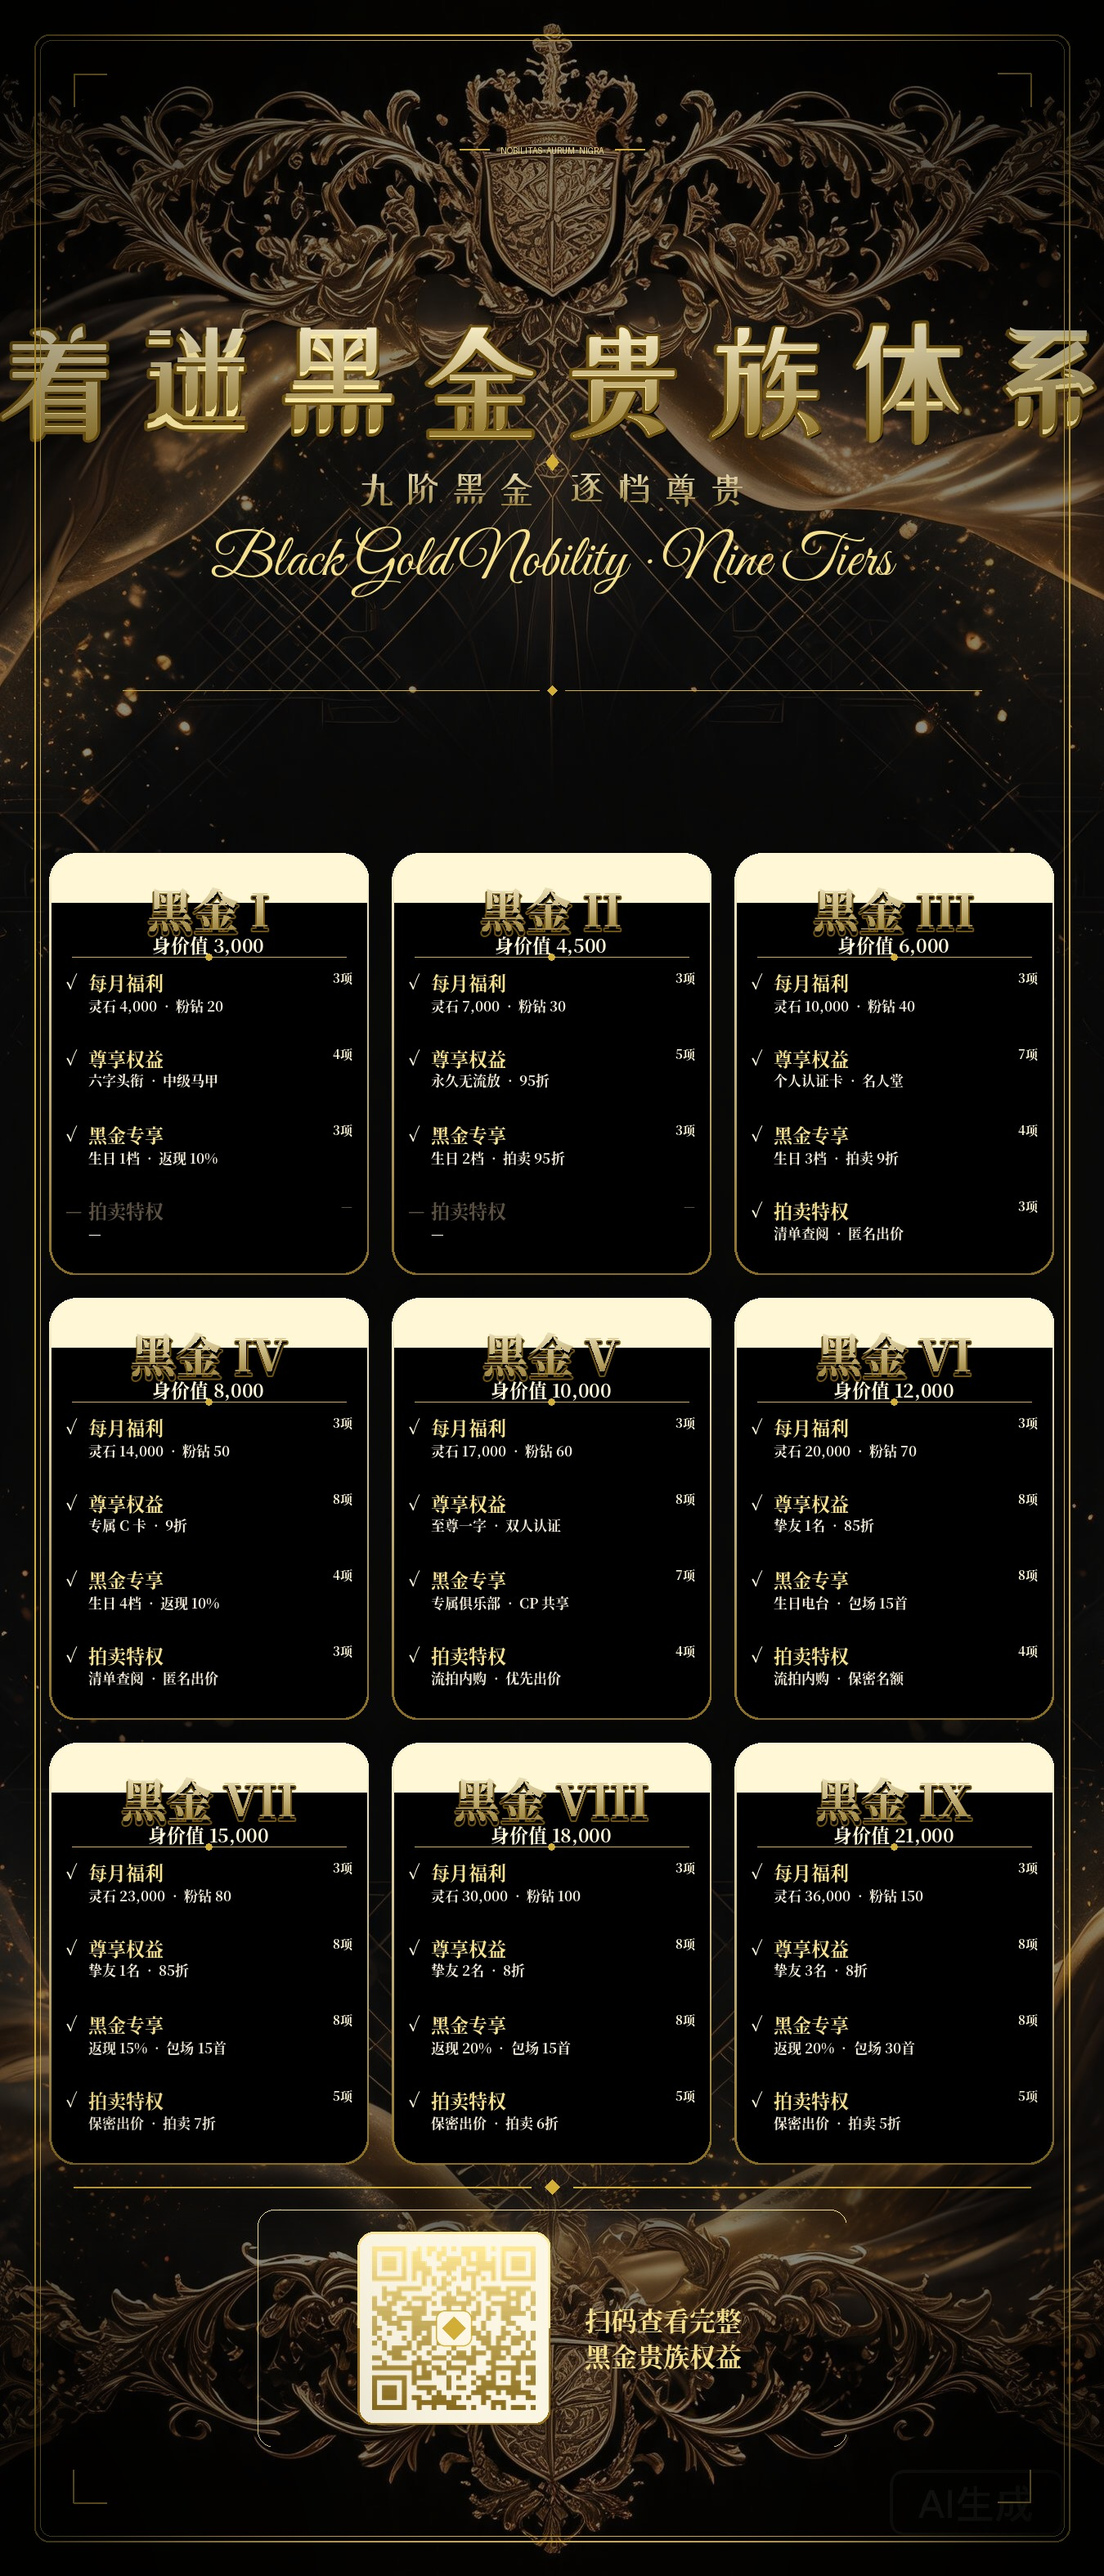
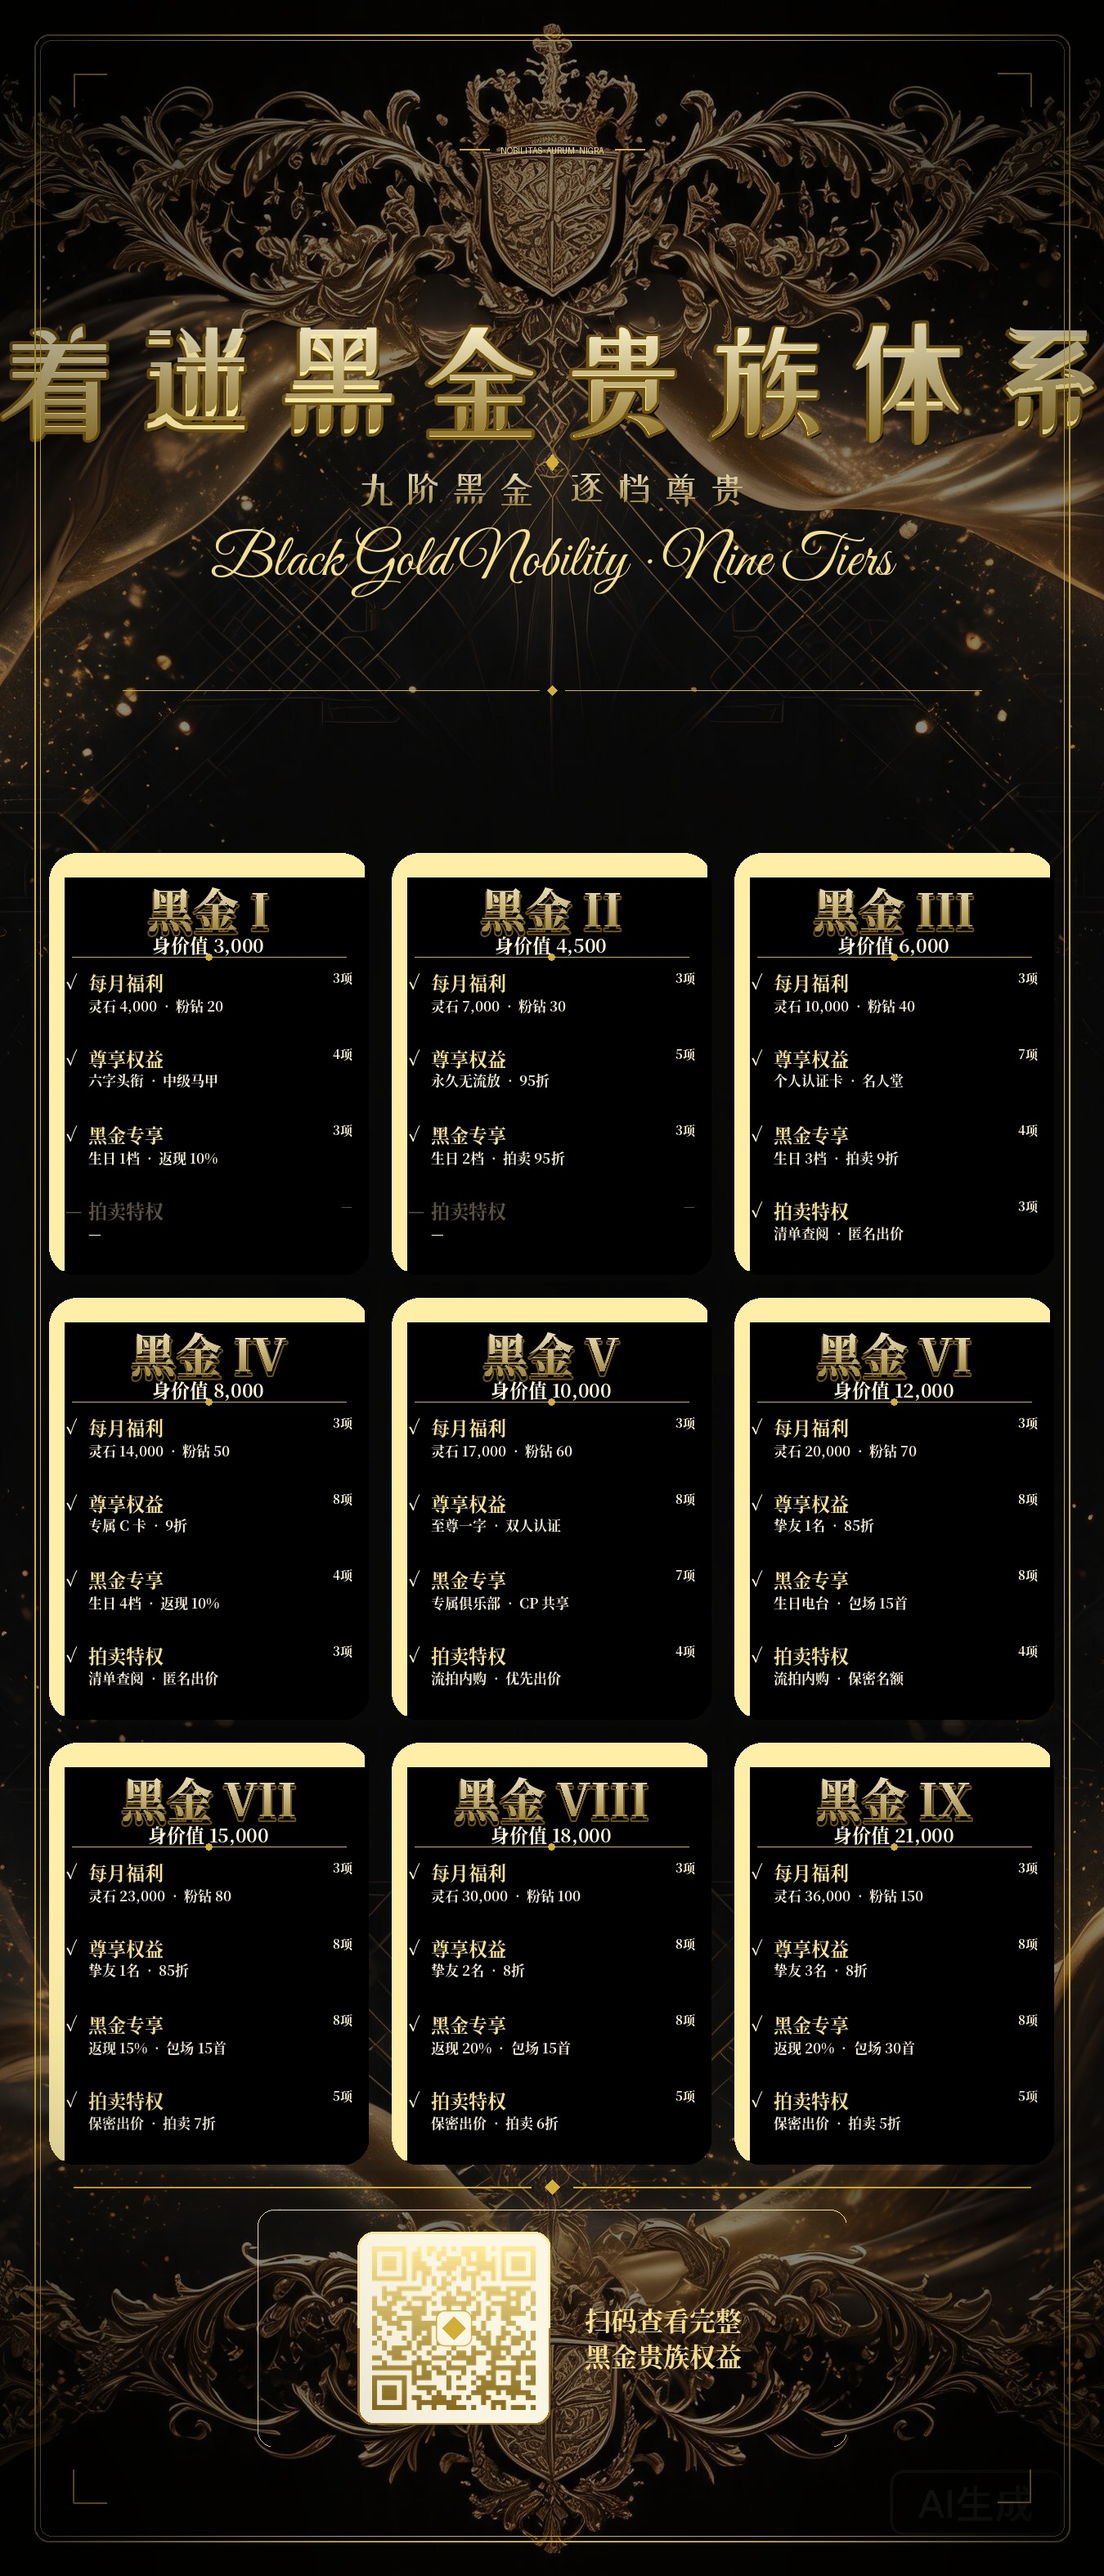
feat: 卡片升级为水晶玻璃质感（高透玻璃底+左上扫光+细金描边+内边缘光晕）

Changed region(s): [[0.0311, 0.3111, 0.9644, 0.84]]

diff --git a/make_poster.py b/make_poster.py
@@ -258,61 +258,81 @@ def card_pos(i):
     return x,y
 
 def glass_card(x,y,w,h,i):
-    """简洁卡片：半透明背景 + 渐变金边 + 凸起光影（投影 + 顶部高光）"""
+    """水晶玻璃卡片：高透玻璃底 + 左上扫光 + 细金描边 + 内边缘光晕 + 柔和投影"""
     R=34  # 圆角
 
-    # ===== 1. 凸起光影 - 外层柔和投影（卡片下方，模糊）=====
-    sh=70
-    shadow=Image.new('RGBA',(w+60,h+140),(0,0,0,0))
+    # ===== 1. 柔和下投影（悬浮感，极淡）=====
+    sh=60
+    shadow=Image.new('RGBA',(w+60,h+120),(0,0,0,0))
     sd=ImageDraw.Draw(shadow)
-    sd.rounded_rectangle((30,h,w+30,h+sh),radius=R,fill=(0,0,0,110))
-    shadow=shadow.filter(ImageFilter.GaussianBlur(18))
+    sd.rounded_rectangle((30,h-6,w+30,h+sh),radius=R,fill=(0,0,0,75))
+    shadow=shadow.filter(ImageFilter.GaussianBlur(22))
     smask=shadow.getchannel('A').copy()
-    ImageDraw.Draw(smask).rectangle((0,0,w+60,h),fill=0)  # 切掉卡片区域内投影
+    ImageDraw.Draw(smask).rectangle((0,0,w+60,h+6),fill=0)
     shadow.putalpha(smask)
     canvas.alpha_composite(shadow,(x-30,y))
 
-    # ===== 2. 半透明背景（深色玻璃，背景微透，整体统一）=====
+    # ===== 2. 高透明玻璃底（深色玻璃，背景清晰透出）=====
     base=Image.new('RGBA',(w,h),(0,0,0,0))
     bd=ImageDraw.Draw(base)
     for yy in range(h):
         tt=yy/max(h-1,1)
-        a=int(120-tt*30)            # 半透明：顶部120，底部90
-        r=int(22+tt*8); g=int(20+tt*8); b=int(26+tt*8)
-        bd.line([(0,yy),(w,yy)],fill=(r,g,b,a))
+        a=int(72+18*(0.5-tt))   # alpha 63~81（够透：背景能看见，卡片也有存在感）
+        bd.line([(0,yy),(w,yy)],fill=(22,18,26,a))
     # 圆角遮罩
-    mask=Image.new('L',(w,h),0)
-    ImageDraw.Draw(mask).rounded_rectangle((0,0,w,h),radius=R,fill=255)
-    base.putalpha(mask)
+    rmask=Image.new('L',(w,h),0)
+    ImageDraw.Draw(rmask).rounded_rectangle((0,0,w,h),radius=R,fill=255)
+    base.putalpha(rmask)
     canvas.alpha_composite(base,(x,y))
 
-    # ===== 3. 凸起光影 - 顶部内高光（凸起感，仅顶部一条亮带）=====
-    top_hl=Image.new('RGBA',(w,h),(0,0,0,0))
-    thd=ImageDraw.Draw(top_hl)
-    for yy in range(int(h*0.12)):
-        tt=yy/(h*0.12)
-        a=int(90*(1-tt)**2)         # 顶部最亮，向下快速衰减
-        thd.line([(0,yy),(w,yy)],fill=(255,247,214,a))
-    topmask=Image.new('L',(w,h),0)
-    ImageDraw.Draw(topmask).rounded_rectangle((0,0,w,h),radius=R,fill=255)
-    top_hl.putalpha(topmask)
-    canvas.alpha_composite(top_hl,(x,y))
+    # ===== 3. 左上扫光（暖白色对角扫过，水晶反光核心）=====
+    sweep=Image.new('RGBA',(w,h),(0,0,0,0))
+    swd=ImageDraw.Draw(sweep)
+    for yy in range(h):
+        for xx in range(w):
+            # 主对角线方程 y = x*h/w
+            diag_y=xx*h/w
+            dist=abs(yy-diag_y)
+            # 到对角线距离归一化（沿宽方向）
+            d_norm=dist/(h*0.55)   # 扫光带宽度扩大
+            # 沿对角线进度
+            prog=(xx+yy)/(w+h)
+            # 左上三角区：prog 小（左上）且 d_norm 小（靠近对角线）
+            if prog<0.70 and d_norm<1.0:
+                intensity=(1-prog/0.70)*(1-d_norm)**1.0
+                a=int(180*intensity)   # 加强：max 180
+                swd.point((xx,yy),fill=(255,248,220,a))
+    sweep.putalpha(rmask)
+    canvas.alpha_composite(sweep,(x,y))
 
-    # ===== 4. 渐变边框（金色，上亮下暗，凸起感）=====
+    # ===== 4. 细金描边（2px 精致金边，上亮下暗渐变）=====
     border=Image.new('RGBA',(w,h),(0,0,0,0))
     bdr=ImageDraw.Draw(border)
     for yy in range(h):
         tt=yy/max(h-1,1)
-        # 金色渐变：顶部亮金 → 底部深金
         cr=int(GOLD_HI[0]+(GOLD_DK[0]-GOLD_HI[0])*tt)
         cg=int(GOLD_HI[1]+(GOLD_DK[1]-GOLD_HI[1])*tt)
         cb=int(GOLD_HI[2]+(GOLD_DK[2]-GOLD_HI[2])*tt)
-        ca=int(235-tt*60)           # 顶部不透明，底部稍透
+        ca=int(210-tt*50)
         bdr.line([(0,yy),(w,yy)],fill=(cr,cg,cb,ca))
     ring=Image.new('L',(w,h),0)
-    ImageDraw.Draw(ring).rounded_rectangle((0,0,w,h),radius=R,fill=0,outline=255,width=3)
+    ImageDraw.Draw(ring).rounded_rectangle((0,0,w,h),radius=R,fill=0,outline=255,width=2)
     border.putalpha(ring)
     canvas.alpha_composite(border,(x,y))
+
+    # ===== 5. 内边缘光晕（顶部 + 左侧，水晶棱边反光）=====
+    inner_glow=Image.new('RGBA',(w,h),(0,0,0,0))
+    igd=ImageDraw.Draw(inner_glow)
+    for yy in range(int(h*0.06)):
+        tt=yy/(h*0.06)
+        a=int(75*(1-tt)**1.8)
+        igd.line([(6,yy),(w-6,yy)],fill=(255,238,168,a))
+    for xx in range(int(w*0.05)):
+        tt=xx/(w*0.05)
+        a=int(55*(1-tt)**1.8)
+        igd.line([(xx,6),(xx,h-6)],fill=(255,238,168,a))
+    inner_glow.putalpha(rmask)
+    canvas.alpha_composite(inner_glow,(x,y))
 
 for i,t in enumerate(TIERS):
     x,y=card_pos(i)
